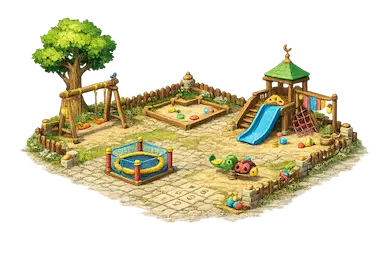
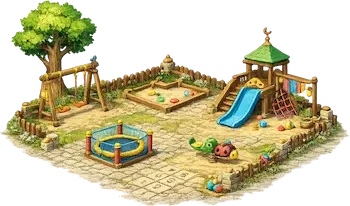
auto-commit for 90c93d9f-5aa1-4860-acf9-97f9442580df

diff --git a/lib/phaser/WorldScene.js b/lib/phaser/WorldScene.js
@@ -158,15 +158,14 @@ export function buildWorldScene(Phaser) {
       pasar_payung:    { path: '/assets/world/pasar/pasar_payung.webp',       baseScale: 0.48 },
       pasar_bangunan:  { path: '/assets/world/pasar/pasar_bangunan.webp',     baseScale: 0.72 },
 
-      // 🎠 Taman (2026-08-03 v2) — 3 aset baharu, semua bottom-anchored di
-      // bawah pad supaya taman duduk kukuh atas grid. Kids animasi akan
-      // di-spawn di atas selepas sprite di-render (_spawnPlayKids).
-      //   • taman_awam   — Playground.webp 2×2, ada gelongsor + ayunan + swing
-      //   • padang_bola  — Football_field.webp 3×3, padang hijau + gol
-      //   • waterpark    — Waterpark.webp 4×4, kolam gelongsor + palma
-      taman_awam:      { path: '/assets/world/taman/taman_awam.webp',  baseScale: 0.55 },
-      padang_bola:     { path: '/assets/world/taman/padang_bola.webp', baseScale: 0.80 },
-      waterpark:       { path: '/assets/world/taman/waterpark.webp',   baseScale: 1.00 },
+      // 🎠 Taman (2026-08-03 v3) — 3 aset baharu, dah SMART-TRIM (auto-crop
+      // transparent padding via PIL). Selepas trim: taman_awam 350×206,
+      // padang_bola 384×236, waterpark 296×224. baseScale ditune supaya
+      // sprite mengisi diamond secara optimal tanpa overshoot horizontal.
+      // Kids animasi akan di-spawn di atas selepas sprite di-render (_spawnPlayKids).
+      taman_awam:      { path: '/assets/world/taman/taman_awam.webp',  baseScale: 0.52 },
+      padang_bola:     { path: '/assets/world/taman/padang_bola.webp', baseScale: 0.72 },
+      waterpark:       { path: '/assets/world/taman/waterpark.webp',   baseScale: 1.25 },
     }
 
     preload() {
@@ -2604,109 +2603,206 @@ export function buildWorldScene(Phaser) {
       }
     }
 
-    // ─── Taman — animated kids playing ──────────────────────────
-    // Spawns kid figures (emoji-based text sprites) INSIDE each park with
-    // playful behaviour: running around (taman_awam), kicking a ball
-    // (padang_bola), splashing/swimming (waterpark).  Kids float slightly
-    // above the pad's bottom vertex so they read as being inside the play
-    // area, not underneath it.  All animations run indefinitely via yoyo
-    // tweens + timer callbacks — no user input needed.
+    // ─── Taman — animated kids playing (SKELETON RIG v2) ────────────
+    // Each kid is a procedurally-drawn stick figure (head + torso + 2 arms +
+    // 2 legs) whose limbs rotate around joints (hip/shoulder) using Phaser
+    // tweens on individual Graphics objects. Result: realistic walking gait
+    // (legs alternate stride, arms swing counter-phase, body bobs).  A small
+    // horizontal flip when direction changes so the child "faces" travel.
+    //
+    // Palette variety: mix of hair colors, shirt colors, and hijabs so each
+    // park has visually distinct kids — feels like a real playground crowd.
     _spawnPlayKids(container, template) {
-      const KID_EMOJIS = ['👦🏻', '👧🏻', '🧒🏻', '👦🏽', '👧🏽']
+      const PALETTES = [
+        { shirt: 0x3a7fd6, pants: 0x2a3d5c, skin: 0xf6d4a6, hair: 0x2a1e14 },              // blue T, dark hair boy
+        { shirt: 0xe94b6c, pants: 0x1c1c34, skin: 0xf3d2ab, hijab: 0xe94b6c },             // pink hijab girl
+        { shirt: 0xffb703, pants: 0x2f3e46, skin: 0xf6d4a6, hair: 0x3a2415 },              // yellow T boy
+        { shirt: 0x2ec4b6, pants: 0x1a3a3a, skin: 0xf3d2ab, hijab: 0x8e44ad },             // purple hijab girl
+        { shirt: 0x0d3b66, pants: 0x1a1a2e, skin: 0xd8a97a, hair: 0x0f0f0f },              // navy T tan boy
+        { shirt: 0xf95738, pants: 0x2a2a2a, skin: 0xf6d4a6, hijab: 0x38b000 },             // green hijab girl
+      ]
+
       const SPECS = {
-        // taman_awam (2×2, 96×48 half-tile) — 3 kids running around the
-        // playground area near the sandbox/slide.
         taman_awam: {
-          count: 3,
-          fontSize: 20,
+          count: 3, scale: 1.1,
           slots: [
-            { x:  -8, y: -14, wanderX: 24, wanderY: 8, dur: 1200 },  // left near swing
-            { x:  18, y: -10, wanderX: 20, wanderY: 6, dur: 1400 },  // right near slide
-            { x:   4, y:  -2, wanderX: 18, wanderY: 5, dur: 1100 },  // front sandbox
+            { x:  -8, y: -14, wanderX: 24, wanderY: 8, dur: 1200 },
+            { x:  18, y: -10, wanderX: 20, wanderY: 6, dur: 1400 },
+            { x:   4, y:  -2, wanderX: 18, wanderY: 5, dur: 1100 },
           ],
           extras: [],
         },
-        // padang_bola (3×3, 144×72) — 4 kids on the football field plus an
-        // animated ball that bounces around.  Wider wander since field is big.
         padang_bola: {
-          count: 4,
-          fontSize: 22,
+          count: 4, scale: 1.15,
           slots: [
-            { x: -30, y: -20, wanderX: 30, wanderY: 10, dur: 1300 },  // left wing
-            { x:  30, y: -18, wanderX: 28, wanderY: 10, dur: 1500 },  // right wing
-            { x:   0, y: -30, wanderX: 24, wanderY: 8,  dur: 1200 },  // striker
-            { x:  -4, y:  -6, wanderX: 22, wanderY: 7,  dur: 1400 },  // midfield
+            { x: -30, y: -20, wanderX: 30, wanderY: 10, dur: 1300 },
+            { x:  30, y: -18, wanderX: 28, wanderY: 10, dur: 1500 },
+            { x:   0, y: -30, wanderX: 24, wanderY: 8,  dur: 1200 },
+            { x:  -4, y:  -6, wanderX: 22, wanderY: 7,  dur: 1400 },
           ],
-          // Extra: a football that bounces between kids in a chase pattern.
-          extras: [
-            { emoji: '⚽', fontSize: 18, x: 0, y: -12, wanderX: 40, wanderY: 12, dur: 900 },
-          ],
+          extras: [{ emoji: '⚽', fontSize: 14, x: 0, y: -12, wanderX: 40, wanderY: 12, dur: 900 }],
         },
-        // waterpark (4×4, 192×96) — 4 kids splashing across the pools and
-        // waterslides, plus floating rings for extra motion.
         waterpark: {
-          count: 4,
-          fontSize: 22,
+          count: 4, scale: 1.15,
           slots: [
-            { x: -34, y: -18, wanderX: 20, wanderY: 6, dur: 1400 },  // small pool left
-            { x:  30, y: -22, wanderX: 22, wanderY: 6, dur: 1600 },  // big pool right
-            { x:  -6, y: -34, wanderX: 18, wanderY: 6, dur: 1500 },  // splash zone top
-            { x:  14, y:  -8, wanderX: 20, wanderY: 6, dur: 1300 },  // deck front
+            { x: -34, y: -18, wanderX: 20, wanderY: 6, dur: 1400, swimming: true },
+            { x:  30, y: -22, wanderX: 22, wanderY: 6, dur: 1600, swimming: true },
+            { x:  -6, y: -34, wanderX: 18, wanderY: 6, dur: 1500 },  // deck kid
+            { x:  14, y:  -8, wanderX: 20, wanderY: 6, dur: 1300 },  // deck kid
           ],
           extras: [
-            { emoji: '🛟', fontSize: 18, x: -18, y: -10, wanderX: 24, wanderY: 8, dur: 2000 },
-            { emoji: '💦', fontSize: 16, x:  10, y: -28, wanderX: 14, wanderY: 5, dur: 800  },
+            { emoji: '🛟', fontSize: 14, x: -18, y: -10, wanderX: 24, wanderY: 8, dur: 2000 },
+            { emoji: '💦', fontSize: 12, x:  10, y: -28, wanderX: 14, wanderY: 5, dur: 800  },
           ],
         },
       }
       const spec = SPECS[template.id]
       if (!spec) return
 
-      const spawnFigure = (emoji, cfg, index = 0) => {
-        const txt = this.add.text(cfg.x, cfg.y, emoji, {
+      // ── Skeleton figure factory ─────────────────────────────
+      // Returns a container with tweened arm+leg graphics that walks in place.
+      // Caller then tweens the outer container along a wander path.
+      const makeKid = (px, py, palette, scale, swimming = false) => {
+        const s = scale || 1
+        const c = this.add.container(px, py)
+
+        const legLen  = 6 * s
+        const torsoW  = 6 * s
+        const torsoH  = 6 * s
+        const armLen  = 5 * s
+        const headR   = 3.6 * s
+        const limbW   = 1.7 * s
+
+        const hipY      = -legLen
+        const shoulderY = -legLen - torsoH * 0.85
+        const headY     = -legLen - torsoH - headR * 0.2
+
+        // ── Limb factory (line from pivot (0,0) drawn downward) ──
+        const limb = (color, len) => {
+          const g = this.add.graphics()
+          g.lineStyle(limbW, color, 1)
+          g.beginPath(); g.moveTo(0, 0); g.lineTo(0, len); g.strokePath()
+          g.fillStyle(color, 1); g.fillCircle(0, len, limbW * 0.55)
+          return g
+        }
+
+        // Legs (behind torso) — hidden if swimming (torso submerged, legs unseen)
+        let leftLeg, rightLeg
+        if (!swimming) {
+          leftLeg  = limb(palette.pants, legLen).setPosition(-torsoW * 0.22, hipY)
+          rightLeg = limb(palette.pants, legLen).setPosition( torsoW * 0.22, hipY)
+          c.add(leftLeg); c.add(rightLeg)
+        }
+
+        // Torso
+        const torso = this.add.graphics()
+        torso.fillStyle(palette.shirt, 1)
+        const torsoY0 = swimming ? shoulderY + torsoH * 0.35 : shoulderY   // partial submerge
+        const torsoDrawH = swimming ? torsoH * 0.65 : torsoH
+        torso.fillRoundedRect(-torsoW / 2, torsoY0, torsoW, torsoDrawH, 1.5 * s)
+        torso.lineStyle(0.6 * s, 0x000000, 0.18)
+        torso.strokeRoundedRect(-torsoW / 2, torsoY0, torsoW, torsoDrawH, 1.5 * s)
+        c.add(torso)
+
+        // Arms — attach at shoulders (or waist if swimming so arms paddle)
+        const armAnchorY = swimming ? torsoY0 + torsoDrawH * 0.4 : shoulderY + torsoH * 0.15
+        const leftArm  = limb(palette.shirt, armLen).setPosition(-torsoW * 0.5, armAnchorY)
+        const rightArm = limb(palette.shirt, armLen).setPosition( torsoW * 0.5, armAnchorY)
+        c.add(leftArm); c.add(rightArm)
+
+        // Hair or hijab (drawn BEFORE face so features overlay)
+        if (palette.hijab != null) {
+          const hj = this.add.graphics()
+          hj.fillStyle(palette.hijab, 1)
+          // Half-circle over head crown
+          hj.slice(0, headY, headR * 1.14, Math.PI, 0, false); hj.fillPath()
+          // Bib flowing onto torso
+          hj.fillTriangle(-headR * 1.05, headY + headR * 0.1,
+                           headR * 1.05, headY + headR * 0.1,
+                           0, headY + headR * 1.7)
+          c.add(hj)
+        } else if (palette.hair != null) {
+          const h = this.add.graphics()
+          h.fillStyle(palette.hair, 1)
+          h.slice(0, headY, headR * 1.05, Math.PI, 0, false); h.fillPath()
+          c.add(h)
+        }
+
+        // Head + face
+        const head = this.add.graphics()
+        head.fillStyle(palette.skin, 1); head.fillCircle(0, headY, headR)
+        head.lineStyle(0.5 * s, 0x000000, 0.18); head.strokeCircle(0, headY, headR)
+        head.fillStyle(0x000000, 0.85)
+        head.fillCircle(-headR * 0.32, headY - headR * 0.05, headR * 0.14)
+        head.fillCircle( headR * 0.32, headY - headR * 0.05, headR * 0.14)
+        head.lineStyle(0.6 * s, 0x000000, 0.85)
+        head.beginPath()
+        head.arc(0, headY + headR * 0.15, headR * 0.34, 0.15 * Math.PI, 0.85 * Math.PI)
+        head.strokePath()
+        c.add(head)
+
+        // ── Animate walking cycle ─────────────────────────────
+        const cycleDur = 480 + Math.random() * 220
+        const legAmp = swimming ? 0 : 26                    // no leg swing when swimming
+        const armAmp = swimming ? 42 : 22                   // arms paddle wider in water
+        if (leftLeg && rightLeg) {
+          this.tweens.add({ targets: leftLeg,  angle:  legAmp, duration: cycleDur, yoyo: true, repeat: -1, ease: 'Sine.easeInOut' })
+          this.tweens.add({ targets: rightLeg, angle: -legAmp, duration: cycleDur, yoyo: true, repeat: -1, ease: 'Sine.easeInOut' })
+        }
+        // Arms swing OPPOSITE to same-side leg (natural counter-phase).
+        this.tweens.add({ targets: leftArm,  angle: -armAmp, duration: cycleDur, yoyo: true, repeat: -1, ease: 'Sine.easeInOut' })
+        this.tweens.add({ targets: rightArm, angle:  armAmp, duration: cycleDur, yoyo: true, repeat: -1, ease: 'Sine.easeInOut' })
+        // Vertical bob — whole container bobs ~1px in stride rhythm.
+        this.tweens.add({
+          targets: c, y: py + (swimming ? 0.6 : 1.2),
+          duration: cycleDur / 2, yoyo: true, repeat: -1, ease: 'Sine.easeInOut',
+        })
+
+        return c
+      }
+
+      // Emoji factory (for props like ⚽ 🛟 💦 that aren't kids)
+      const makeProp = (emoji, cfg) => {
+        const t = this.add.text(cfg.x, cfg.y, emoji, {
           fontFamily: 'Apple Color Emoji, Segoe UI Emoji, Twemoji Mozilla, sans-serif',
           fontSize: `${cfg.fontSize}px`,
         }).setOrigin(0.5, 1.0)
-        txt.setDepth(5 + index * 0.01)   // above the park artwork
-        container.add(txt)
+        return t
+      }
 
+      // Wander loop shared by kids + props
+      const startWander = (obj, cfg, depth) => {
+        obj.setDepth(depth)
+        container.add(obj)
         const baseX = cfg.x, baseY = cfg.y
         const step = () => {
-          if (!txt.scene || !txt.active) return
+          if (!obj.scene || !obj.active) return
           const nx = baseX + (Math.random() * 2 - 1) * cfg.wanderX
           const ny = baseY + (Math.random() * 2 - 1) * cfg.wanderY
-          const dir = nx < txt.x ? -1 : 1
+          const dir = nx < obj.x ? -1 : 1
           this.tweens.add({
-            targets: txt,
-            x: nx,
-            y: ny,
-            scaleX: dir,   // horizontal flip so the child "faces" travel dir
-            duration: cfg.dur + Math.random() * 400,
-            ease: 'Sine.easeInOut',
-            onComplete: () => {
-              this.time.delayedCall(150 + Math.random() * 500, step)
-            },
-          })
-          // Little bounce (jump) — subtle Y scale pulse so kids feel lively.
-          this.tweens.add({
-            targets: txt,
-            scaleY: 1.15,
-            duration: (cfg.dur + 200) / 2,
-            yoyo: true,
-            ease: 'Sine.easeInOut',
+            targets: obj, x: nx, y: ny, scaleX: dir * (obj._baseScaleX || 1),
+            duration: cfg.dur + Math.random() * 400, ease: 'Sine.easeInOut',
+            onComplete: () => this.time.delayedCall(150 + Math.random() * 500, step),
           })
         }
         this.time.delayedCall(Math.random() * 700, step)
       }
 
-      // Kids
+      // Spawn kids
       for (let i = 0; i < spec.count; i++) {
         const slot = spec.slots[i % spec.slots.length]
-        const emoji = KID_EMOJIS[i % KID_EMOJIS.length]
-        spawnFigure(emoji, { ...slot, fontSize: spec.fontSize }, i)
+        const palette = PALETTES[(i * 2 + template.id.length) % PALETTES.length]
+        const kid = makeKid(slot.x, slot.y, palette, spec.scale, slot.swimming)
+        kid._baseScaleX = 1
+        startWander(kid, slot, 5 + i * 0.01)
       }
-      // Extras (ball, floaties, splashes)
-      spec.extras.forEach((ex, i) => spawnFigure(ex.emoji, ex, spec.count + i))
+      // Spawn extras (ball, floaties)
+      spec.extras.forEach((ex, i) => {
+        const prop = makeProp(ex.emoji, ex)
+        prop._baseScaleX = 1
+        startWander(prop, ex, 6 + i * 0.01)
+      })
     }
 
     // ─── Animal shapes — refined geometric primitives ────────────

diff --git a/PROJECT_CONTEXT.md b/PROJECT_CONTEXT.md
@@ -134,7 +134,13 @@
 - **Taman moved AFTER Rumah** (user: "cart for taman should be place after the house, not before the house").
 - **Pasar tab merged into Awam** (user: "combine awam and pasar into one cart"). All pasar variants now have `category: 'awam'`; the standalone Pasar category is removed. Existing worlds keep rendering since we look up by templateId not category.
 
-**Taman animated play kids (`_spawnPlayKids`)**: After each taman PNG renders, kid emoji sprites (👦🏻 👧🏻 🧒🏻) are spawned INSIDE the park with per-template behaviours — playground kids wander near swings, football field spawns 4 players + an animated ⚽ chase ball, waterpark spawns 4 swimmers + 🛟 floatie + 💦 splash particle. Similar to `_spawnLivestockAnimals`, kids yoyo-tween between wander points with a subtle vertical body bob.
+**Taman animated play kids (`_spawnPlayKids`, v3 SKELETON RIG 2026-08-03)**: Each kid is now a procedurally-drawn stick figure — head (circle with face), torso (rounded rect in shirt color), 2 arms + 2 legs (thin lines that ROTATE around hip/shoulder joints). A walking cycle tween on `.angle` of each limb runs indefinitely: legs swing ±25° alternating stride, arms swing ±22° in counter-phase (natural gait), whole container bobs 1px vertically in sync. When a kid tweens across a wander path, `scaleX` flips so they face travel direction.
+
+- **6 palette variants** cycle through kids (boy blue T, pink-hijab girl, yellow T boy, purple-hijab girl, navy T tan boy, green-hijab girl) so each park feels crowded and diverse.
+- **Swimming mode** (waterpark pool kids): legs hidden, torso partially submerged, arms paddle at wider ±42° amplitude. Deck kids still walk normally.
+- **Props** (⚽ football, 🛟 floatie, 💦 splash) remain emoji text sprites — cheap and expressive.
+
+**Taman asset smart-trim (2026-08-03)**: All 3 taman PNGs (Playground.webp, Football_field.webp, Waterpark.webp) auto-cropped via PIL `getbbox()` — transparent padding removed so the artwork sits tighter on the isometric pad (waterpark went from 384×256 → 296×224 = 32% trimmed). baseScale re-tuned to 0.52 / 0.72 / 1.25 respectively.
 
 **Sidebar sort**: variants sorted ascending by cost (kids see cheapest first).
 
